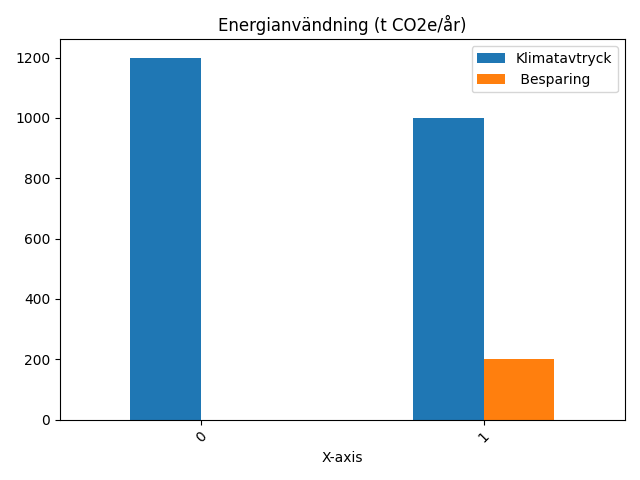
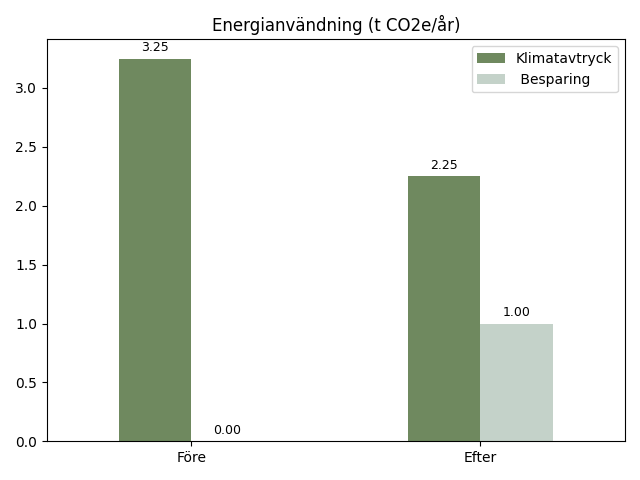
Add energi.py script and update data for bar chart
Introduces energi.py to generate a bar chart from energi.csv using matplotlib and pandas. Updates energi.csv with new values and regenerates bar_chart.png to reflect the new data.

diff --git a/energi.py b/energi.py
@@ -1,0 +1,55 @@
+import pandas as pd
+import sys
+import matplotlib.pyplot as plt
+
+def generate_bar_chart(data, xlabel="X-axis", ylabel="Y-axis"):
+    plt.figure(figsize=(10, 6))
+    
+    # Set the color for the bars. 
+    colors = ["#6F895F", '#C4D2C9']
+    
+    ax = data.plot(kind='bar', color=colors)
+    plt.title("Energianvändning (t CO2e/år)")
+    # Sätt egna etiketter om det finns exakt två indexrader
+    if len(data.index) == 2:
+        ax.set_xticks(range(len(data.index)))
+        # Sätter etiketterna under varje stapel. 
+        ax.set_xticklabels(['Före', 'Efter'])
+    else:
+        ax.set_xticklabels(data.index.astype(str), rotation=0)
+    plt.xticks(rotation=0)
+
+    # --- Lägg till värden över varje stapel ---
+    for p in ax.patches:
+        height = p.get_height()
+        # hoppa över NaN
+        if pd.isna(height):
+            continue
+        ax.annotate(f'{height:.2f}',  # Changed from .0f to .2f to show two decimal place
+                    (p.get_x() + p.get_width() / 2, height),
+                    xytext=(0, 3),  # offset i punkter
+                    textcoords="offset points",
+                    ha='center', va='bottom',
+                    fontsize=9)
+    # ------------------------------------
+
+    plt.tight_layout()
+    plt.savefig('bar_chart.png')
+    plt.close()
+
+def main():
+    if len(sys.argv) < 2:
+        print("Usage: python energi.py <csv_file>")
+        return
+
+    csv_file = sys.argv[1]
+
+    try:
+        data = pd.read_csv(csv_file)
+        generate_bar_chart(data)
+        print("Bar chart generated as 'bar_chart.png'")
+    except Exception as e:
+        print(f"Error: {str(e)}")
+
+if __name__ == "__main__":
+    main()
